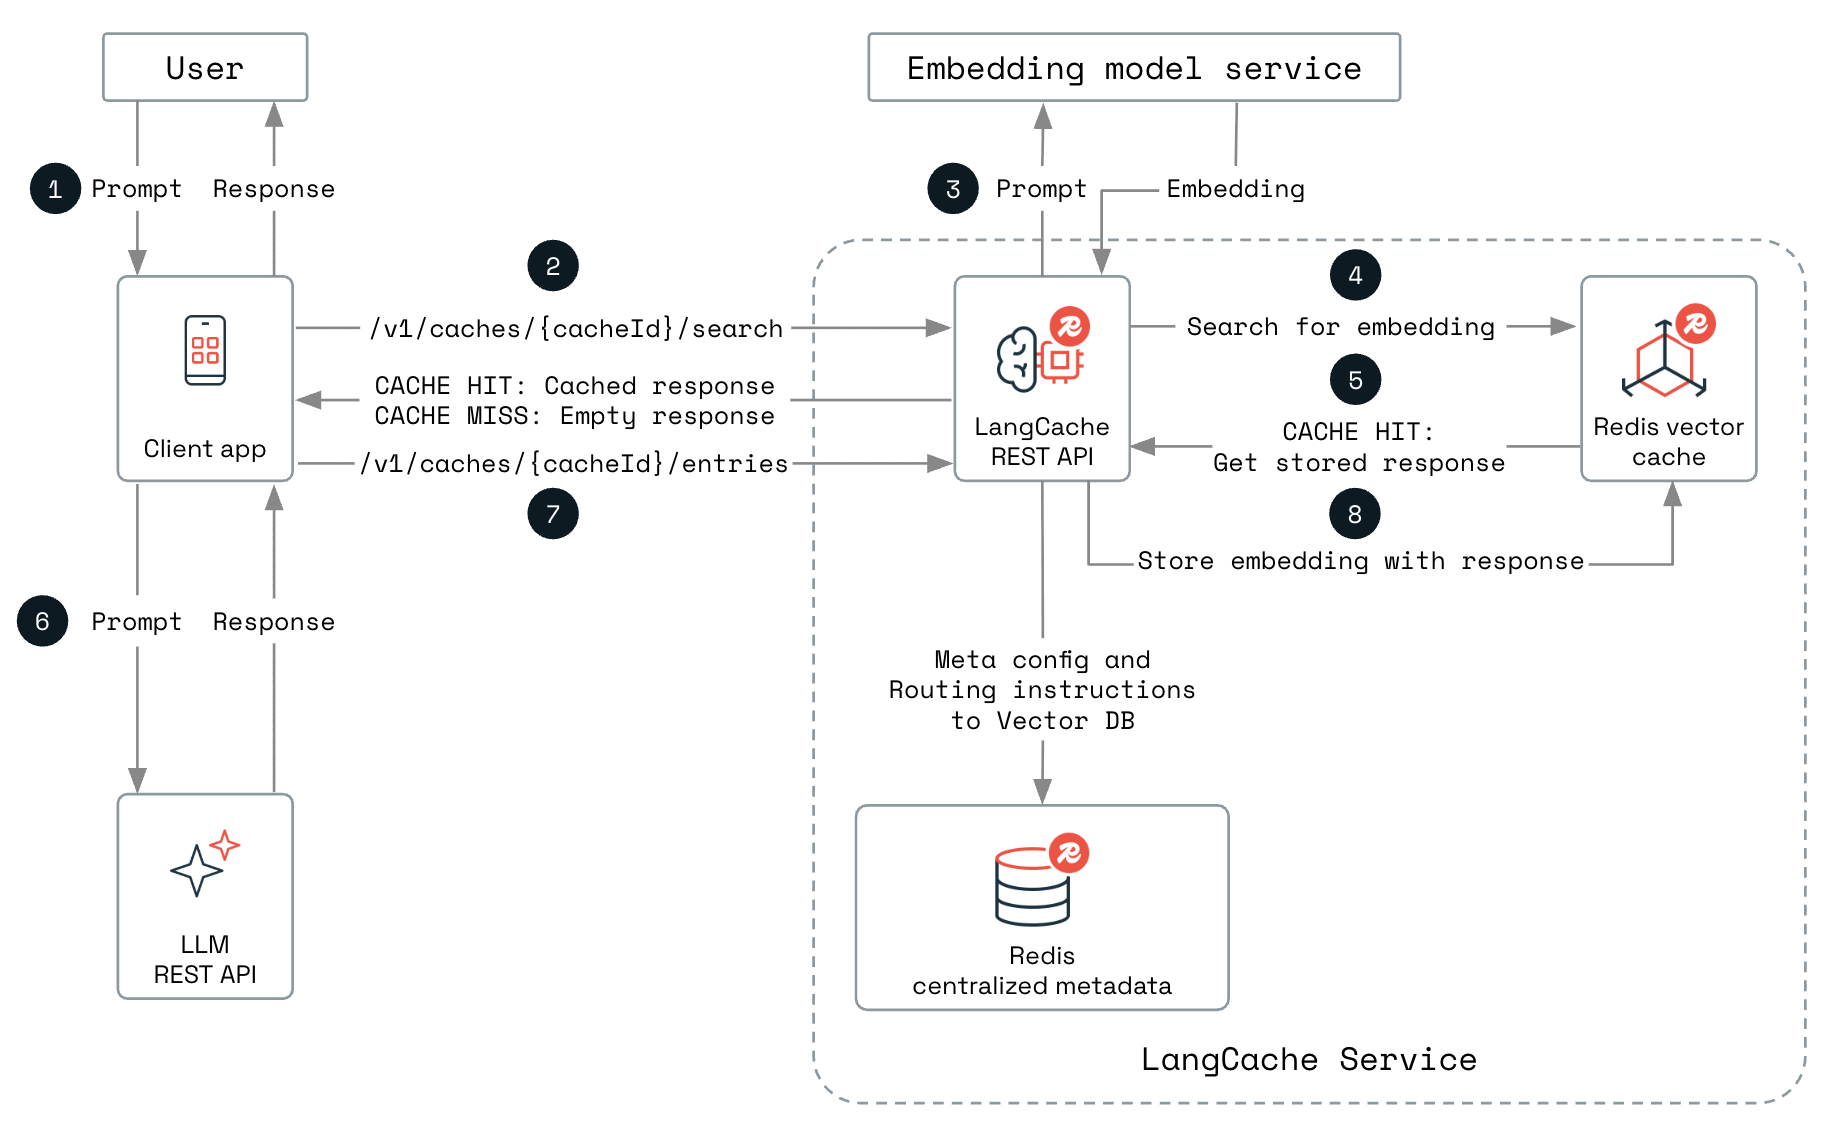
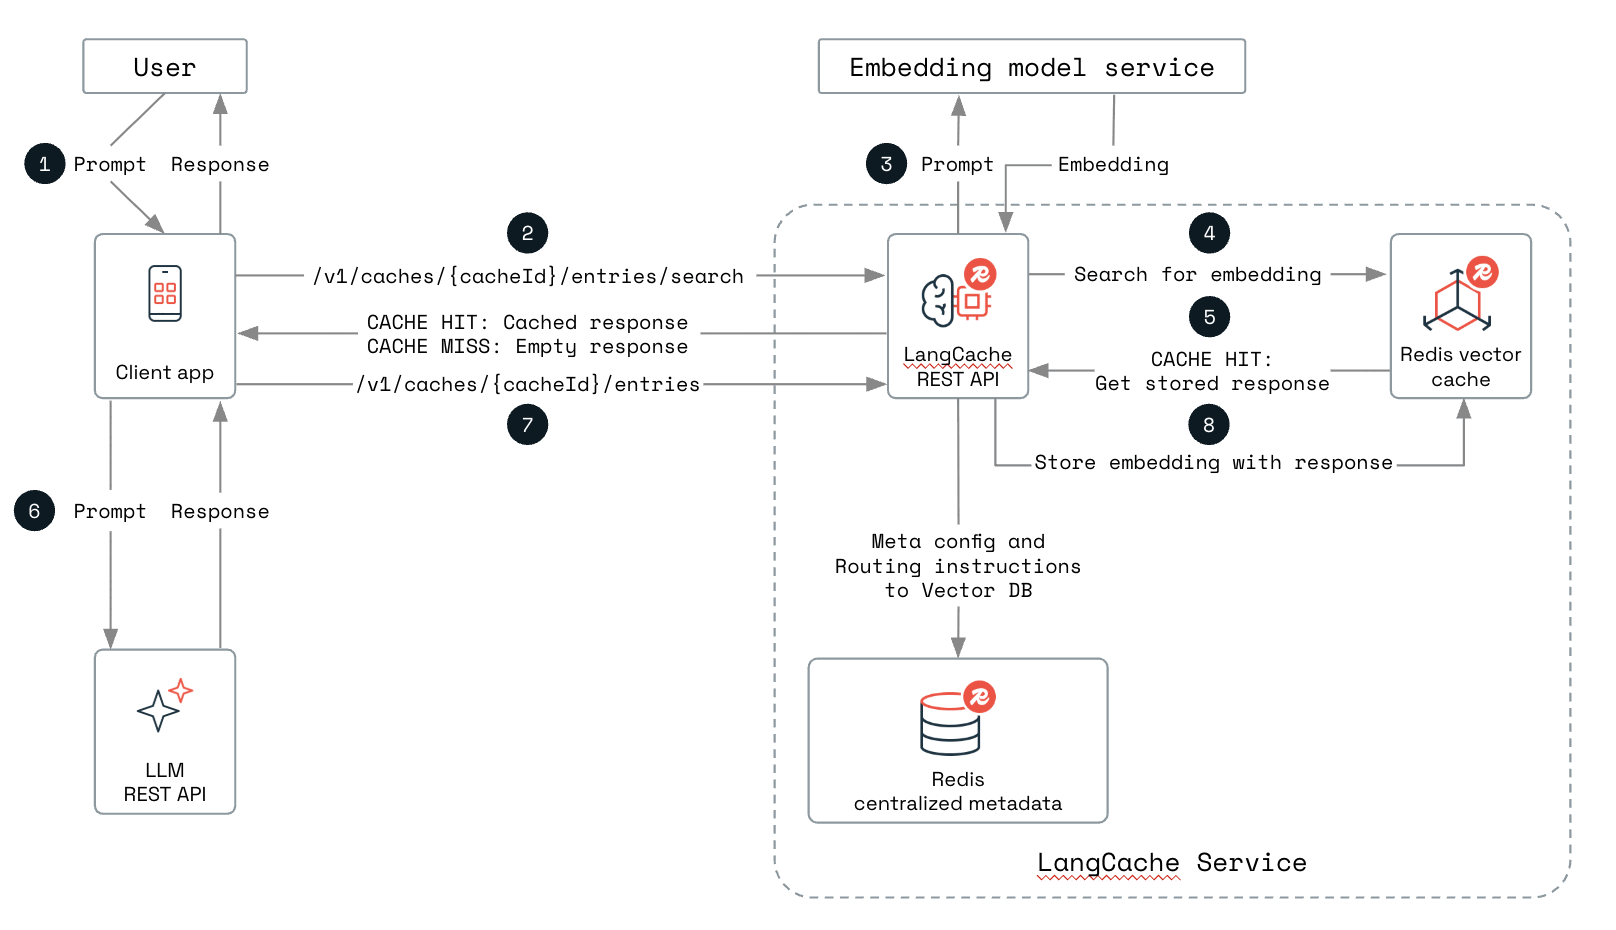
Langcache: Fix a few /v1/{cahceId}/entires/search endpoints

diff --git a/content/develop/ai/langcache/_index.md b/content/develop/ai/langcache/_index.md
@@ -52,7 +52,7 @@ The following diagram displays how you can integrate LangCache into your GenAI a
 {{< image filename="images/rc/langcache-process.png" alt="The LangCache process diagram." >}}
 
 1. A user sends a prompt to your AI app.
-1. Your app sends the prompt to LangCache through the `POST /v1/caches/{cacheId}/search` endpoint.
+1. Your app sends the prompt to LangCache through the `POST /v1/caches/{cacheId}/entries/search` endpoint.
 1. LangCache calls an embedding model service to generate an embedding for the prompt.
 1. LangCache searches the cache to see if a similar response already exists by matching the embeddings of the new query with the stored embeddings. 
 1. If a semantically similar entry is found (also known as a cache hit), LangCache gets the cached response and returns it to your app. Your app can then send the cached response back to the user.
@@ -60,7 +60,7 @@ The following diagram displays how you can integrate LangCache into your GenAI a
 1. Your app sends the prompt and the new response to LangCache through the `POST /v1/caches/{cacheId}/entries` endpoint. 
 1. LangCache stores the embedding with the new response in the cache for future use.
 
-See the [LangCache API reference]({{< relref "/develop/ai/langcache/api-reference" >}}) for more information on how to use the LangCache API.
+See the [LangCache API and SDK examples]({{< relref "/develop/ai/langcache/api-examples" >}}) for more information on how to use the LangCache API.
 
 ## Get started
 
